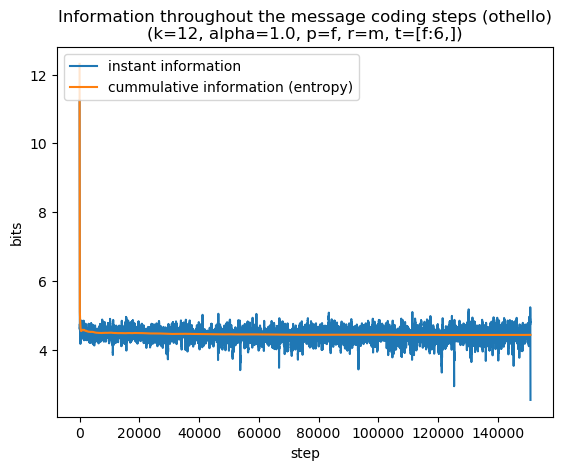
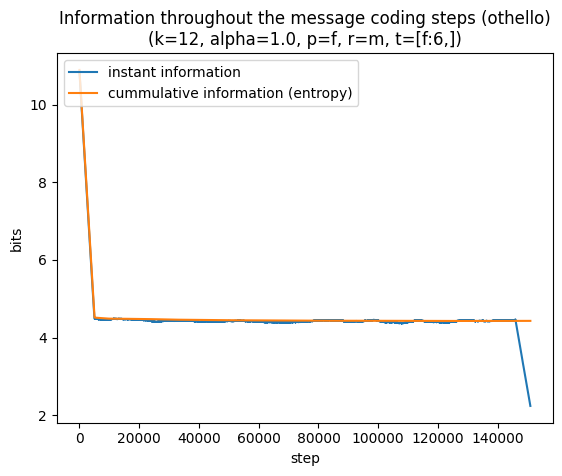
updated data for othello

Changed region(s): [[0.0605, 0.0, 0.9982, 0.983], [0.0, 0.4766, 0.0605, 0.5362]]

diff --git a/scripts/main.py b/scripts/main.py
@@ -1,15 +1,11 @@
 import subprocess
 
 
+k_list = range(15,3,-1)
 
 
-
-tc_list =[0.01,0.05]
-
-
-
-for tc in tc_list:
-    command = 'python3 generate_results.py --fname chry -k12 -pf -a1 -rm -tc:'+str(tc)
+for k in k_list:
+    command = 'python3 generate_results.py --fname othello -k'+str(k)+' -pf -a1 -rm -tf:6'
     process = subprocess.Popen(command, shell=True, stdout=subprocess.PIPE)
     process.wait()
 
@@ -17,5 +13,43 @@ for tc in tc_list:
         print('success:'+ command)
     else:
         print('ERROR:'+ command)
+
+tf_list =[3,6,9]
+tc_list =[0.01,0.05]
+tn_list =[0.3,0.4,0.5]
+
+
+for tf in tf_list:
+    command = 'python3 generate_results.py --fname othello -k12 -pf -a1 -rm -tf:'+str(tf)
+    process = subprocess.Popen(command, shell=True, stdout=subprocess.PIPE)
+    process.wait()
+
+    if process.returncode == 0:
+        print('success:'+ command)
+    else:
+        print('ERROR:'+ command)
+
+for tc in tc_list:
+    command = 'python3 generate_results.py --fname othello -k12 -pf -a1 -rm -tc:'+str(tc)
+    process = subprocess.Popen(command, shell=True, stdout=subprocess.PIPE)
+    process.wait()
+
+    if process.returncode == 0:
+        print('success:'+ command)
+    else:
+        print('ERROR:'+ command)
+
+for tn in tn_list:
+    command = 'python3 generate_results.py --fname othellon -k12 -pf -a1 -rm -tn:'+str(tn)
+    process = subprocess.Popen(command, shell=True, stdout=subprocess.PIPE)
+    process.wait()
+
+    if process.returncode == 0:
+        print('success:'+ command)
+    else:
+        print('ERROR:'+ command)
+
+
+
 
 
